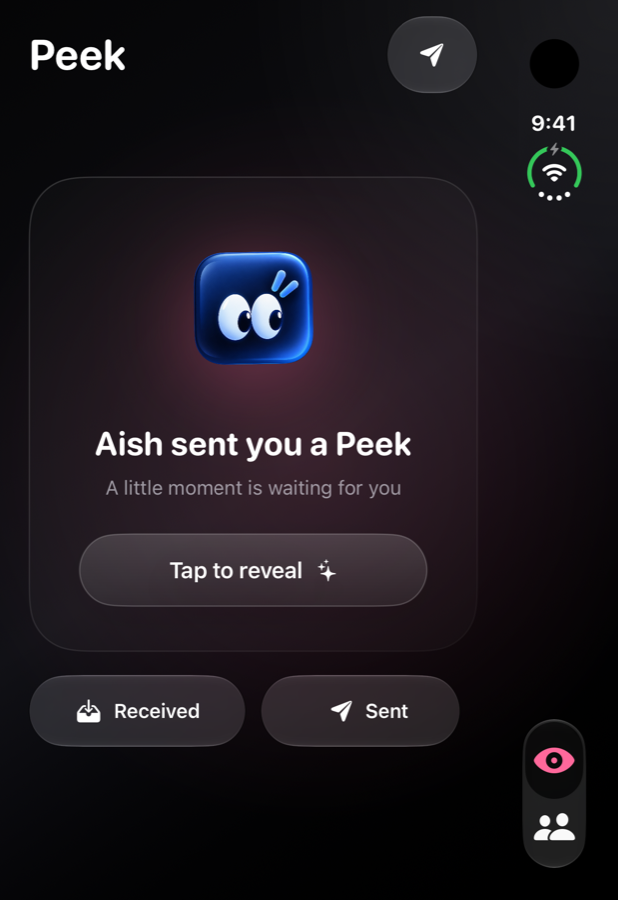
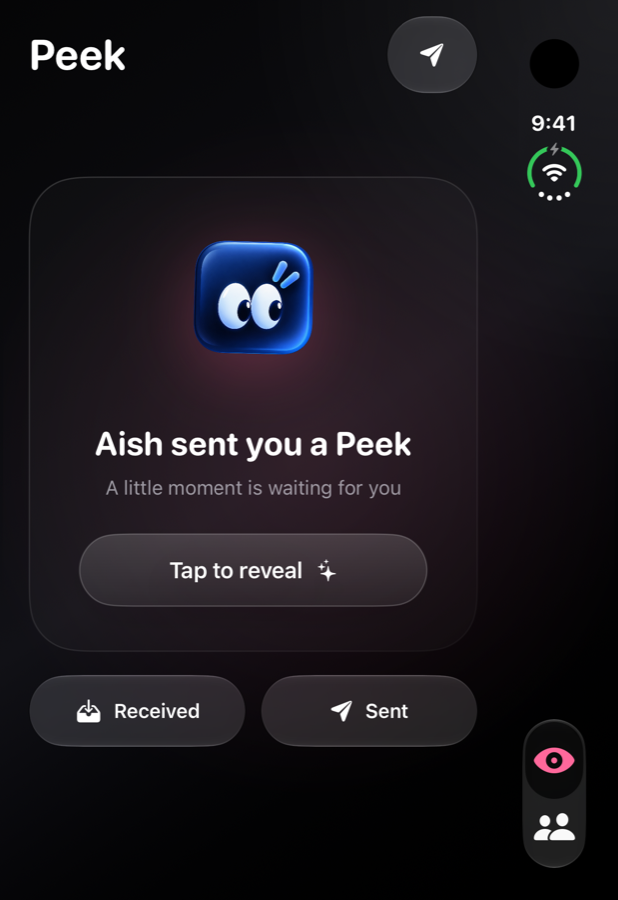
Update the README with the full screen flow and the new behavior
Replace the single inbox capture with six screenshots from the final
build: the outer-screen inbox and invitation, the reveal at 110 degrees,
the result, Sent, and Friends on the inner screen. Document Next Peek,
fold-before-reveal on an open Duo, the phone-width layout, and IdleClock,
and update the verification section to what was actually walked
through.

Changed region(s): [[0.3074, 0.2489, 0.5227, 0.4044], [0.7071, 0.7467, 0.7686, 0.84]]

diff --git a/README.md b/README.md
@@ -8,15 +8,15 @@
 
 A friend sends a photo. You open it by unfolding your iPhone Duo, and they get your real reaction back, not an emoji.
 
-[How a Peek works](#how-a-peek-works) · [What's real today](#whats-real-today) · [Under the hood](#under-the-hood) · [Run it](#run-it) · [Verification](#verification) · [Find the code](#find-the-code)
+[How a Peek works](#how-a-peek-works) · [See it](#see-it) · [What's real today](#whats-real-today) · [Under the hood](#under-the-hood) · [Run it](#run-it) · [Verification](#verification) · [Find the code](#find-the-code)
 
 <sub>An iPhone Duo app built with SwiftUI, AVFoundation, the iOS 27.1 hinge API, and RevenueCat.</sub>
 
 <br />
 
-<img src="docs/readme/inbox.png" width="46%" alt="Peek's inbox on the iPhone Duo's outer screen: 'Aish sent you a Peek', a Tap to reveal button, and Received and Sent buttons" />
+<img src="docs/readme/result.png" width="100%" alt="A revealed Peek on the iPhone Duo's inner screen: a dog illustration with its caption, the viewer's reaction thumbnail, 'Reaction sent', and Replay reaction and Next Peek buttons" />
 
-<sub>The real inbox, captured from the outer screen of the iPhone Duo simulator. The black circle at the top right is the screen's camera cutout.</sub>
+<sub>A revealed Peek on the inner screen, captured from the iPhone Duo simulator. The reaction thumbnail is the labeled simulator stand-in; on a device it is your front camera.</sub>
 
 </div>
 
@@ -26,10 +26,30 @@ A friend sends a photo. You open it by unfolding your iPhone Duo, and they get y
 2. **Tap to reveal.** Peek asks for the front camera and starts recording your reaction. The permission prompt says exactly that: *"Peek records your reaction only after you tap Reveal."*
 3. **Unfold the phone.** The photo follows the hinge. It wipes in from the left, sharpens from a heavy blur, and brightens as the Duo opens. A soft haptic marks the first movement, and the caption appears near the end.
 4. **Fully open = revealed.** A success haptic plays, recording continues for 1.6 seconds to catch the moment, then stops.
-5. **Your reaction goes back.** The result screen shows the photo with your reaction as a picture-in-picture. **Next Peek** moves on; when the inbox is empty you get a small celebration instead.
+5. **Your reaction goes back.** The result screen shows the photo, its caption, and your reaction as a picture-in-picture. **Next Peek** opens the next unopened Peek directly; when there are none left, the inbox celebrates instead.
 6. **See how they took it.** Under **Sent**, each friend who reacted has a play button. Today it opens a placeholder player; playing the real clip needs the backend described below.
 
-No Duo? The reveal screen shows an **Unfold to reveal** control that plays the same motion, so the flow works on the simulator and on other iPhones.
+**Already unfolded?** A Peek never reveals itself on an open Duo. Peek asks you to fold the phone and unfold it again.
+
+**No Duo?** The reveal screen shows an **Unfold to reveal** control that plays the same motion, so the flow works on the simulator and on other iPhones.
+
+## See it
+
+Every image below is a screenshot of the app running on the iPhone Duo simulator, with the hinge driven from closed to open.
+
+| On the outer screen | Tap to reveal |
+| :---: | :---: |
+| <img src="docs/readme/inbox.png" width="78%" alt="The inbox on the outer screen: 'Aish sent you a Peek', Tap to reveal, and Received and Sent buttons" /> | <img src="docs/readme/invite.png" width="78%" alt="The reveal invitation: a glowing orb, 'Unfold to reveal', and 'The reveal follows your iPhone Duo'" /> |
+| The next unopened Peek, waiting. The closed Duo shows it on the outer screen. | The invitation. The photo stays hidden until the hinge moves. |
+
+| Halfway open | Sent |
+| :---: | :---: |
+| <img src="docs/readme/unfolding.png" width="100%" alt="Mid-unfold on the inner screen: the photo blurred and partly wiped in, a REC badge, a reaction thumbnail, and 'Keep going'" /> | <img src="docs/readme/sent.png" width="100%" alt="The Sent screen: the sent photo with its caption and four friends' reaction buttons" /> |
+| At 110° the photo is blurred and half wiped in, and the reaction is recording. | Your Peek and who reacted to it, sized to fit the screen. |
+
+<img src="docs/readme/friends.png" width="49%" alt="The Friends tab on the inner screen: four friends in phone-width cards" />
+
+<sub>Friends. On the Duo's wide inner screen, lists and cards keep a phone-width column instead of stretching edge to edge.</sub>
 
 ## What's real today
 
@@ -37,7 +57,7 @@ Peek is a working prototype. The reveal mechanics are real; the social layer is 
 
 | Real | Demo or not built yet |
 | :--- | :--- |
-| The reveal follows the actual hinge angle and status on iPhone Duo (iOS 27.1). | Friends and incoming Peeks are built-in demo data. The photos are drawn illustrations. |
+| The reveal follows the actual hinge angle and status on iPhone Duo (iOS 27.1), and requires a real unfold. | Friends and incoming Peeks are built-in demo data. The photos are drawn illustrations. |
 | The front camera records a real `.mov` of your reaction while you unfold. | There is no backend: reactions are not uploaded or delivered to the sender. |
 | Camera permission, denial, and missing-camera cases fall back cleanly to a labeled **Simulated reaction**. | The sender's reaction player shows a placeholder, not the recorded video. |
 | RevenueCat loads offerings and tracks the `plus` entitlement. | There is no paywall UI yet; the subscription state is not used by any screen. |
@@ -52,7 +72,8 @@ flowchart LR
     Demo["Unfold to reveal control<br/>(no hinge)"] --> Posture
     Posture["DuoPostureService<br/>angle → progress<br/>status → completion"] --> Reveal
     Camera["ReactionCaptureService<br/>front camera → .mov"] --> Reveal
-    Reveal["RevealExperienceView<br/>blur · wipe · haptics"] -->|"fully open"| Result["Result<br/>photo + reaction"]
+    Reveal["RevealExperienceView<br/>blur · wipe · haptics"] -->|"fully open,<br/>after a fold"| Result["Result<br/>photo + reaction"]
+    Result -->|"Next Peek"| Reveal
     Result --> Model["AppModel<br/>marks Peek opened"]
     RC["SubscriptionService<br/>RevenueCat · plus"] --> Model
 ```
@@ -61,6 +82,8 @@ flowchart LR
 
 [`DuoPostureService`](Peek/Services/DuoPostureService.swift) reads `DeviceHingeContext` through SwiftUI's `onHingeChange`. The **angle** drives the animation: while the phone is partly open, progress is the angle divided by 180°, held between 8% and 96%. Only the hinge's own **fully open** status completes the reveal. That split keeps the photo moving smoothly with your hand while making sure a slightly-short unfold can't end it early.
 
+[`RevealExperienceView`](Peek/Features/Reveal/RevealExperienceView.swift) adds one more rule: the reveal only counts once the phone has been seen folded or part-open during that reveal. Until then the photo stays at zero progress, so opening a Peek on a Duo that is already flat asks for a fold instead of showing the photo.
+
 **Tradeoff:** the hinge API needs iOS 27.1. On earlier systems the observer is skipped and only the demo control can open a Peek.
 
 ### A camera with a clear boundary
@@ -68,6 +91,12 @@ flowchart LR
 [`ReactionCaptureService`](Peek/Services/ReactionCaptureService.swift) starts only when the reveal screen opens, records to a temporary file, and stops itself after the reveal. If permission is denied, the camera is missing, or setup throws, it switches to a labeled placeholder instead of failing the reveal. A **REC** badge and a live preview of your face appear as soon as the unfold begins.
 
 **Tradeoff:** the recording stays on the phone and lives in a temp directory; nothing uploads it yet.
+
+### Motion that can't move the layout
+
+The floating mark and the glows are driven by [`IdleClock`](Peek/Components/PeekComponents.swift), a `TimelineView` that computes each value from the time. An earlier version used `repeatForever` animations, and SwiftUI attached them to whatever else changed in the same moment. On the Duo the window settles its size as the app appears, so the glass buttons kept growing and shrinking and the mark drifted around the screen, forever. With no animated state, there is nothing for a layout change to attach to. The loops pause when **Reduce Motion** is on.
+
+**Tradeoff:** those few views redraw every frame while they are on screen.
 
 ### Subscriptions without a hard dependency
 
@@ -98,7 +127,9 @@ cp RevenueCat.plist.example Peek/RevenueCat.plist
 Checked on Nov 17, 2026 with Xcode 27.1 (27A9269):
 
 - **Builds** for the iPhone Duo simulator and for a generic iOS device (unsigned).
-- **Runs** on the iPhone Duo simulator. The inbox screenshot above is from that run.
+- **Walked through** on the iPhone Duo simulator: inbox on the outer screen, reveal with the hinge at 110° and then fully open, Next Peek, Sent, the reaction sheet, and Friends on the inner screen.
+- **Opening a Peek on an already-open Duo** waits for a fold, then reveals on the next unfold.
+- **Glass buttons hold their size:** six screenshots 0.4 s apart measure the same button edges to within a pixel.
 
 Not yet verified: the reveal on physical iPhone Duo hardware, camera recording on a real device, and RevenueCat purchases. There are no automated tests yet.
 
@@ -116,13 +147,14 @@ Peek/
     SubscriptionService.swift       RevenueCat entitlement state
   Features/
     Inbox/InboxView.swift           Home screen, next Peek, Received / Sent
-    Reveal/RevealExperienceView.swift   The unfold-to-reveal experience
-    Reveal/IncomingPeekView.swift   "Sent you a Peek" invitation
+    Reveal/RevealExperienceView.swift   The unfold-to-reveal experience and result
     Reactions/SenderReactionsView.swift Who reacted to your Peek
     Friends/FriendsView.swift       Friends list and Add friend
-  Components/                       Camera preview, avatars, glass buttons
+  Components/
+    CameraPreview.swift             Live camera preview and the simulated stand-in
+    PeekComponents.swift            Avatars, buttons, glass styles, IdleClock
 RevenueCat.plist.example            Template for the git-ignored SDK key file
-docs/readme/                        Images used in this README
+docs/readme/                        Screenshots used in this README
 ```
 
 ## Credits
